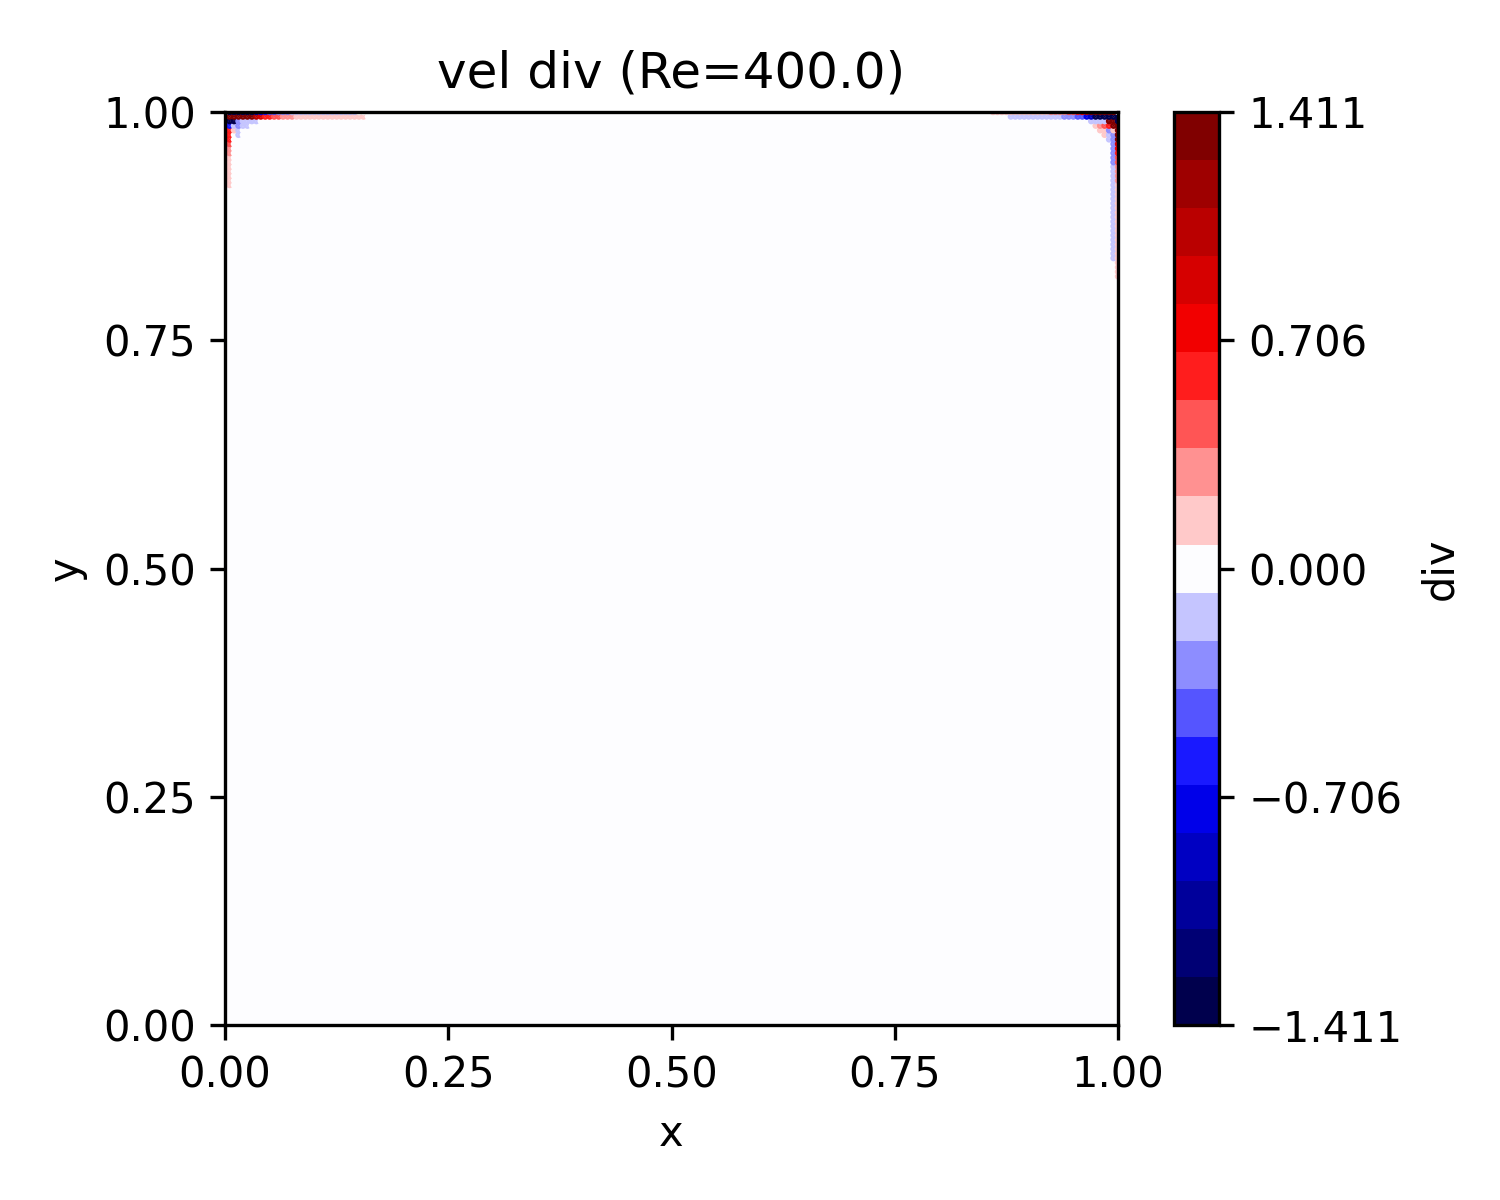
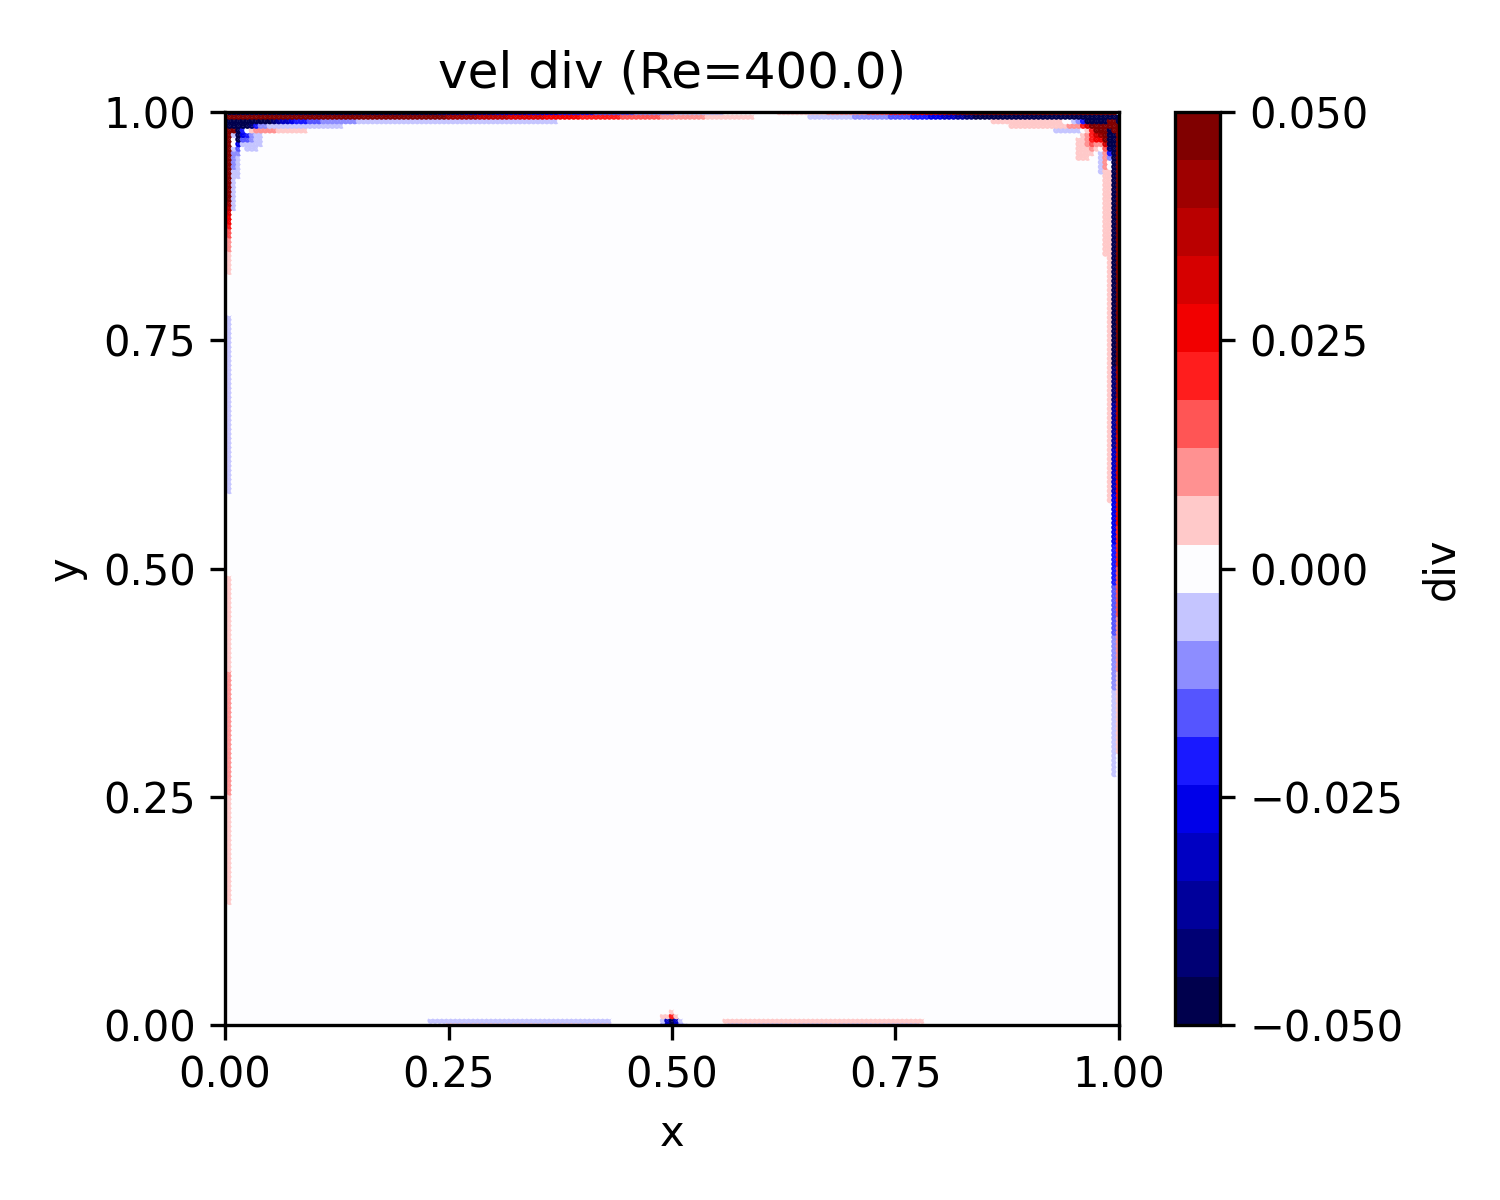
fix vel div figs

diff --git a/Re_100/visualize.py b/Re_100/visualize.py
@@ -176,9 +176,11 @@ def main():
     div = np.zeros_like(u)
     div[1:-1, 1:-1] = (u[1:-1, 2:] - u[1:-1, :-2]) / 2. / dx \
                     + (v[2:, 1:-1] - v[:-2, 1:-1]) / 2. / dy
-    limit = np.abs(div).max()
-    scale = .05
-    vmin, vmax = - scale * limit, scale * limit
+    # limit = np.abs(div).max()
+    # scale = .05
+    # vmin, vmax = - scale * limit, scale * limit
+    limit = .05
+    vmin, vmax = - limit, limit
     vticks = (vmax - vmin) / 4
     bounds = np.linspace(vmin, vmax, nbar-1)
     norm = colors.BoundaryNorm(bounds, cmap.N)

diff --git a/Re_1000/visualize.py b/Re_1000/visualize.py
@@ -172,9 +172,11 @@ def main():
     div = np.zeros_like(u)
     div[1:-1, 1:-1] = (u[1:-1, 2:] - u[1:-1, :-2]) / 2. / dx \
                     + (v[2:, 1:-1] - v[:-2, 1:-1]) / 2. / dy
-    limit = np.abs(div).max()
-    scale = .05
-    vmin, vmax = - scale * limit, scale * limit
+    # limit = np.abs(div).max()
+    # scale = .05
+    # vmin, vmax = - scale * limit, scale * limit
+    limit = .05
+    vmin, vmax = - limit, limit
     vticks = (vmax - vmin) / 4
     bounds = np.linspace(vmin, vmax, nbar-1)
     norm = colors.BoundaryNorm(bounds, cmap.N)

diff --git a/Re_1000_highres/visualize.py b/Re_1000_highres/visualize.py
@@ -172,9 +172,11 @@ def main():
     div = np.zeros_like(u)
     div[1:-1, 1:-1] = (u[1:-1, 2:] - u[1:-1, :-2]) / 2. / dx \
                     + (v[2:, 1:-1] - v[:-2, 1:-1]) / 2. / dy
-    limit = np.abs(div).max()
-    scale = .05
-    vmin, vmax = - scale * limit, scale * limit
+    # limit = np.abs(div).max()
+    # scale = .05
+    # vmin, vmax = - scale * limit, scale * limit
+    limit = .05
+    vmin, vmax = - limit, limit
     vticks = (vmax - vmin) / 4
     bounds = np.linspace(vmin, vmax, nbar-1)
     norm = colors.BoundaryNorm(bounds, cmap.N)

diff --git a/Re_100_highres/visualize.py b/Re_100_highres/visualize.py
@@ -176,9 +176,11 @@ def main():
     div = np.zeros_like(u)
     div[1:-1, 1:-1] = (u[1:-1, 2:] - u[1:-1, :-2]) / 2. / dx \
                     + (v[2:, 1:-1] - v[:-2, 1:-1]) / 2. / dy
-    limit = np.abs(div).max()
-    scale = .05
-    vmin, vmax = - scale * limit, scale * limit
+    # limit = np.abs(div).max()
+    # scale = .05
+    # vmin, vmax = - scale * limit, scale * limit
+    limit = .05
+    vmin, vmax = - limit, limit
     vticks = (vmax - vmin) / 4
     bounds = np.linspace(vmin, vmax, nbar-1)
     norm = colors.BoundaryNorm(bounds, cmap.N)

diff --git a/Re_3200/visualize.py b/Re_3200/visualize.py
@@ -171,9 +171,11 @@ def main():
     div = np.zeros_like(u)
     div[1:-1, 1:-1] = (u[1:-1, 2:] - u[1:-1, :-2]) / 2. / dx \
                     + (v[2:, 1:-1] - v[:-2, 1:-1]) / 2. / dy
-    limit = np.abs(div).max()
-    scale = .05
-    vmin, vmax = - scale * limit, scale * limit
+    # limit = np.abs(div).max()
+    # scale = .05
+    # vmin, vmax = - scale * limit, scale * limit
+    limit = .05
+    vmin, vmax = - limit, limit
     vticks = (vmax - vmin) / 4
     bounds = np.linspace(vmin, vmax, nbar-1)
     norm = colors.BoundaryNorm(bounds, cmap.N)

diff --git a/Re_3200_highres/visualize.py b/Re_3200_highres/visualize.py
@@ -172,9 +172,11 @@ def main():
     div = np.zeros_like(u)
     div[1:-1, 1:-1] = (u[1:-1, 2:] - u[1:-1, :-2]) / 2. / dx \
                     + (v[2:, 1:-1] - v[:-2, 1:-1]) / 2. / dy
-    limit = np.abs(div).max()
-    scale = .05
-    vmin, vmax = - scale * limit, scale * limit
+    # limit = np.abs(div).max()
+    # scale = .05
+    # vmin, vmax = - scale * limit, scale * limit
+    limit = .05
+    vmin, vmax = - limit, limit
     vticks = (vmax - vmin) / 4
     bounds = np.linspace(vmin, vmax, nbar-1)
     norm = colors.BoundaryNorm(bounds, cmap.N)

diff --git a/Re_400/visualize.py b/Re_400/visualize.py
@@ -175,9 +175,11 @@ def main():
     div = np.zeros_like(u)
     div[1:-1, 1:-1] = (u[1:-1, 2:] - u[1:-1, :-2]) / 2. / dx \
                     + (v[2:, 1:-1] - v[:-2, 1:-1]) / 2. / dy
-    limit = np.abs(div).max()
-    scale = .05
-    vmin, vmax = - scale * limit, scale * limit
+    # limit = np.abs(div).max()
+    # scale = .05
+    # vmin, vmax = - scale * limit, scale * limit
+    limit = .05
+    vmin, vmax = - limit, limit
     vticks = (vmax - vmin) / 4
     bounds = np.linspace(vmin, vmax, nbar-1)
     norm = colors.BoundaryNorm(bounds, cmap.N)

diff --git a/Re_400_highres/visualize.py b/Re_400_highres/visualize.py
@@ -175,9 +175,11 @@ def main():
     div = np.zeros_like(u)
     div[1:-1, 1:-1] = (u[1:-1, 2:] - u[1:-1, :-2]) / 2. / dx \
                     + (v[2:, 1:-1] - v[:-2, 1:-1]) / 2. / dy
-    limit = np.abs(div).max()
-    scale = .05
-    vmin, vmax = - scale * limit, scale * limit
+    # limit = np.abs(div).max()
+    # scale = .05
+    # vmin, vmax = - scale * limit, scale * limit
+    limit = .05
+    vmin, vmax = - limit, limit
     vticks = (vmax - vmin) / 4
     bounds = np.linspace(vmin, vmax, nbar-1)
     norm = colors.BoundaryNorm(bounds, cmap.N)

diff --git a/Re_5000/visualize.py b/Re_5000/visualize.py
@@ -172,9 +172,11 @@ def main():
     div = np.zeros_like(u)
     div[1:-1, 1:-1] = (u[1:-1, 2:] - u[1:-1, :-2]) / 2. / dx \
                     + (v[2:, 1:-1] - v[:-2, 1:-1]) / 2. / dy
-    limit = np.abs(div).max()
-    scale = .05
-    vmin, vmax = - scale * limit, scale * limit
+    # limit = np.abs(div).max()
+    # scale = .05
+    # vmin, vmax = - scale * limit, scale * limit
+    limit = .05
+    vmin, vmax = - limit, limit
     vticks = (vmax - vmin) / 4
     bounds = np.linspace(vmin, vmax, nbar-1)
     norm = colors.BoundaryNorm(bounds, cmap.N)

diff --git a/Re_5000_highres/visualize.py b/Re_5000_highres/visualize.py
@@ -172,9 +172,11 @@ def main():
     div = np.zeros_like(u)
     div[1:-1, 1:-1] = (u[1:-1, 2:] - u[1:-1, :-2]) / 2. / dx \
                     + (v[2:, 1:-1] - v[:-2, 1:-1]) / 2. / dy
-    limit = np.abs(div).max()
-    scale = .05
-    vmin, vmax = - scale * limit, scale * limit
+    # limit = np.abs(div).max()
+    # scale = .05
+    # vmin, vmax = - scale * limit, scale * limit
+    limit = .05
+    vmin, vmax = - limit, limit
     vticks = (vmax - vmin) / 4
     bounds = np.linspace(vmin, vmax, nbar-1)
     norm = colors.BoundaryNorm(bounds, cmap.N)
